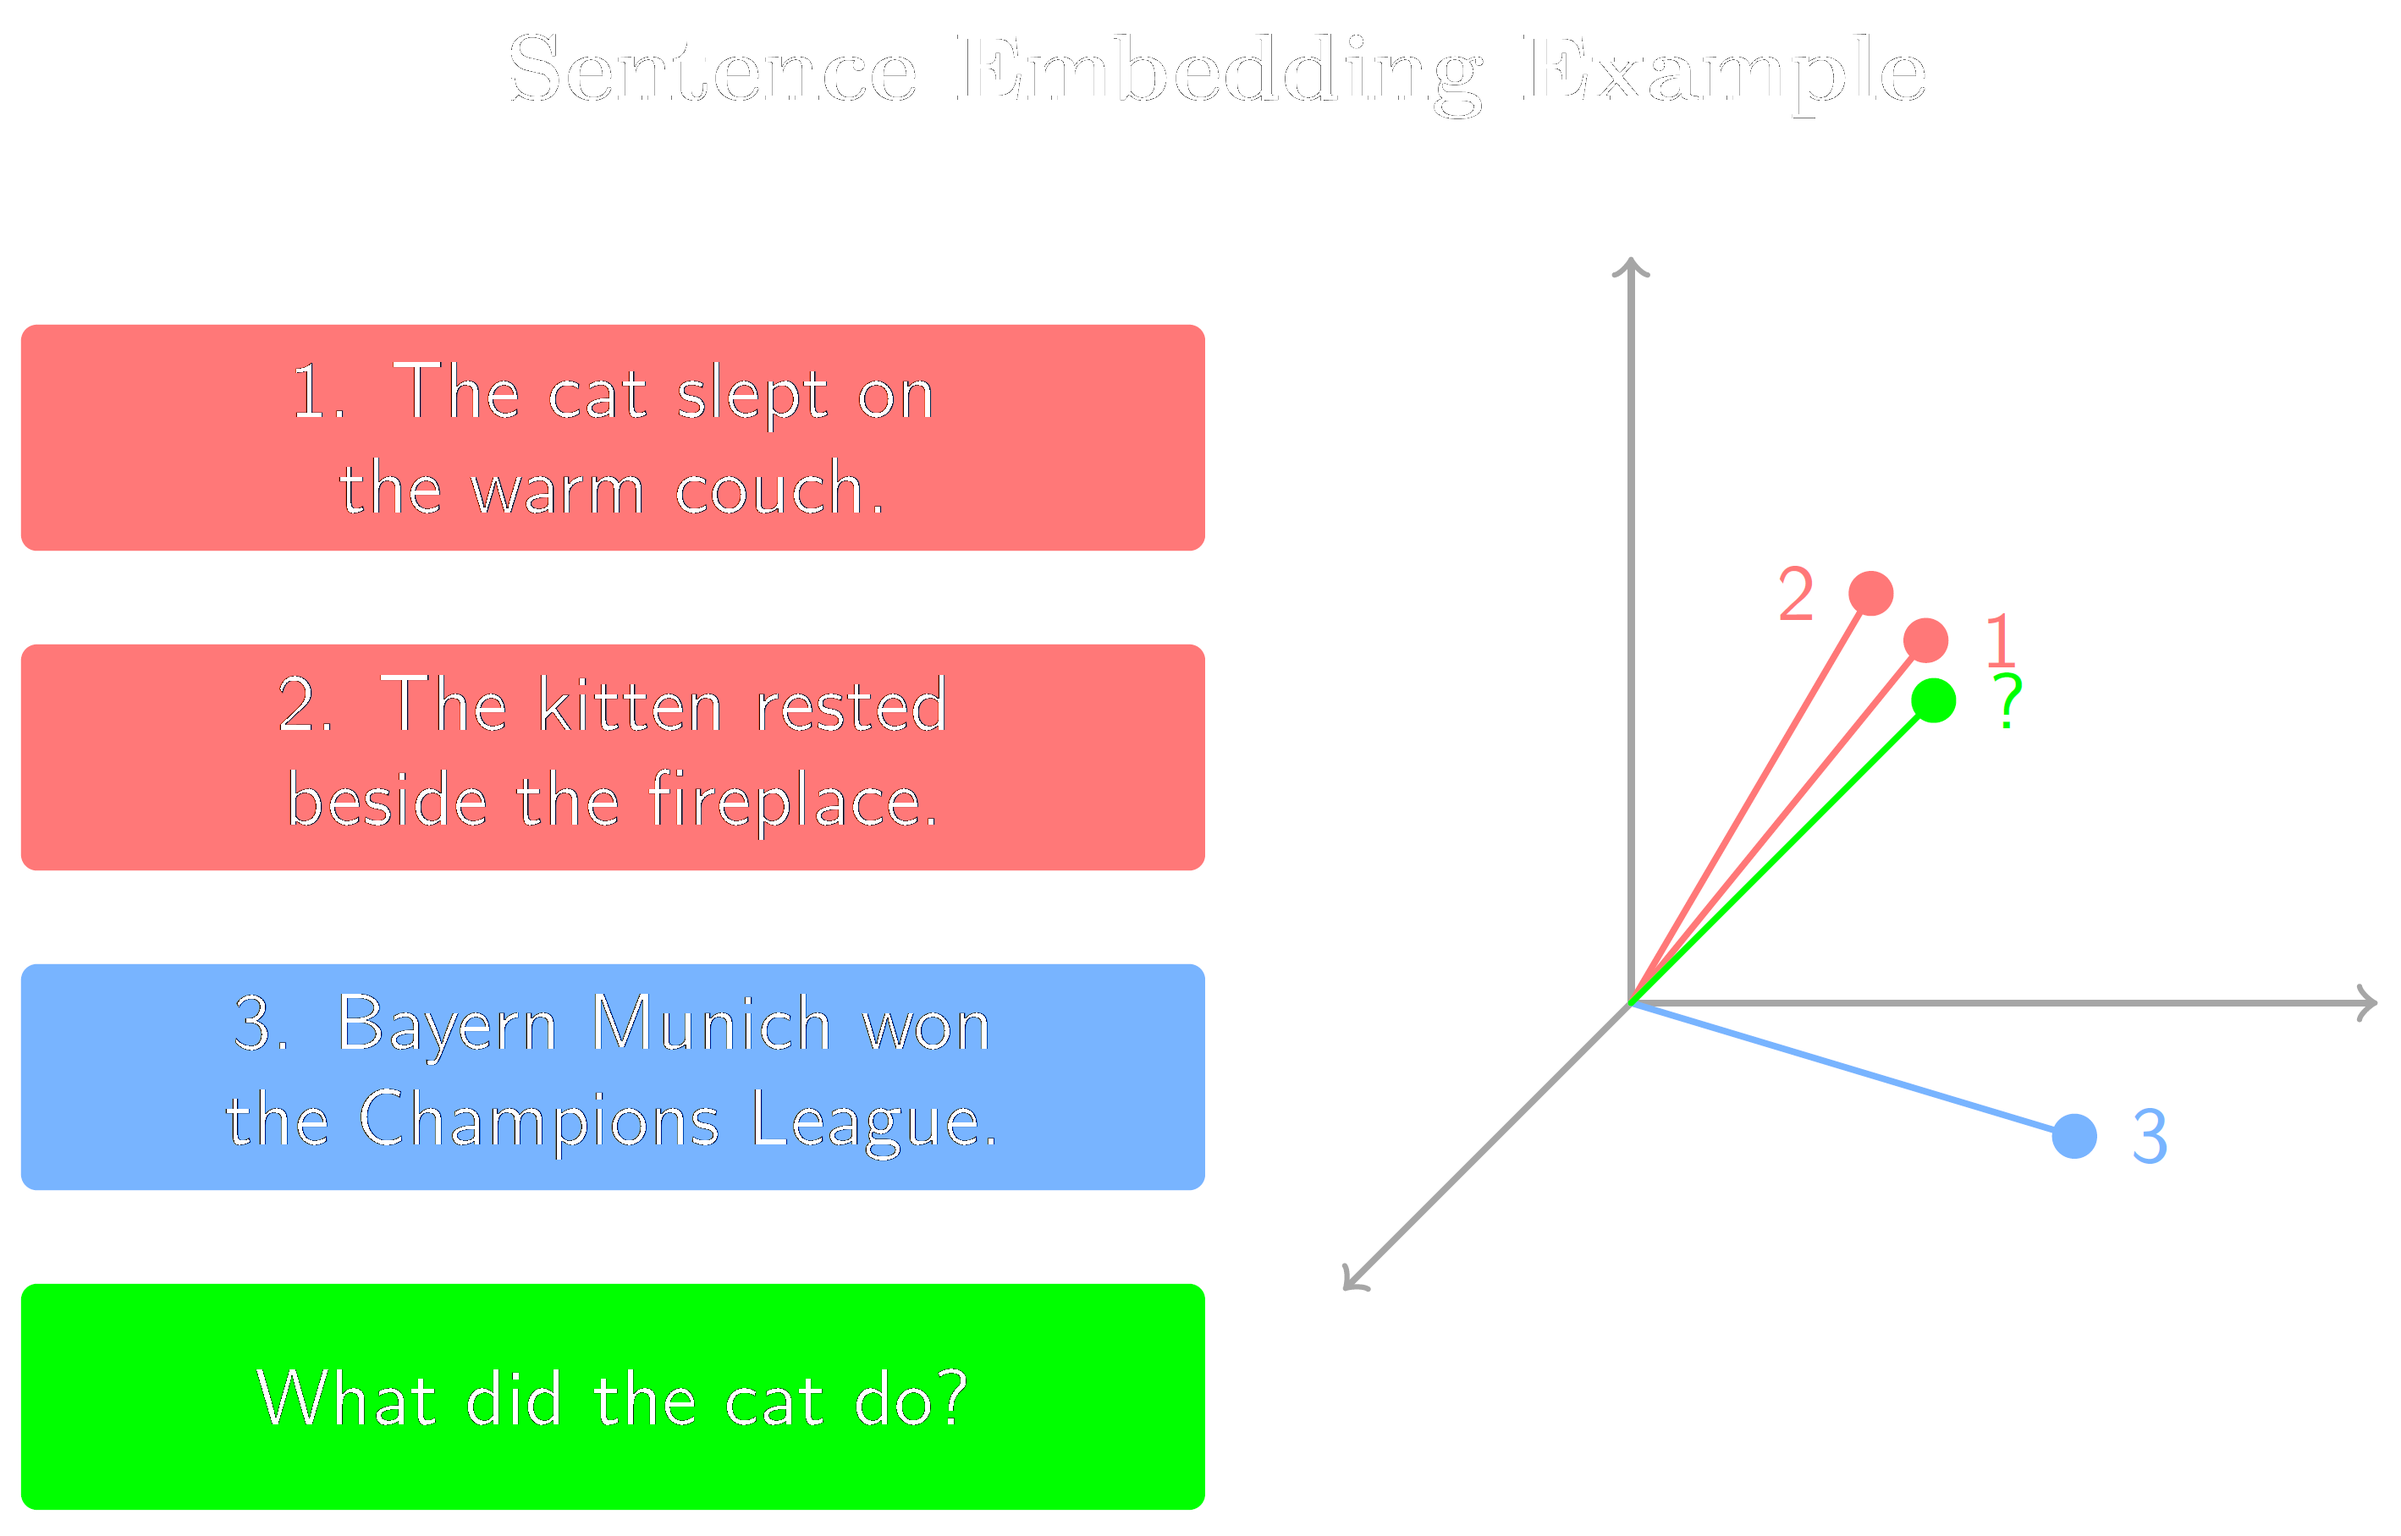
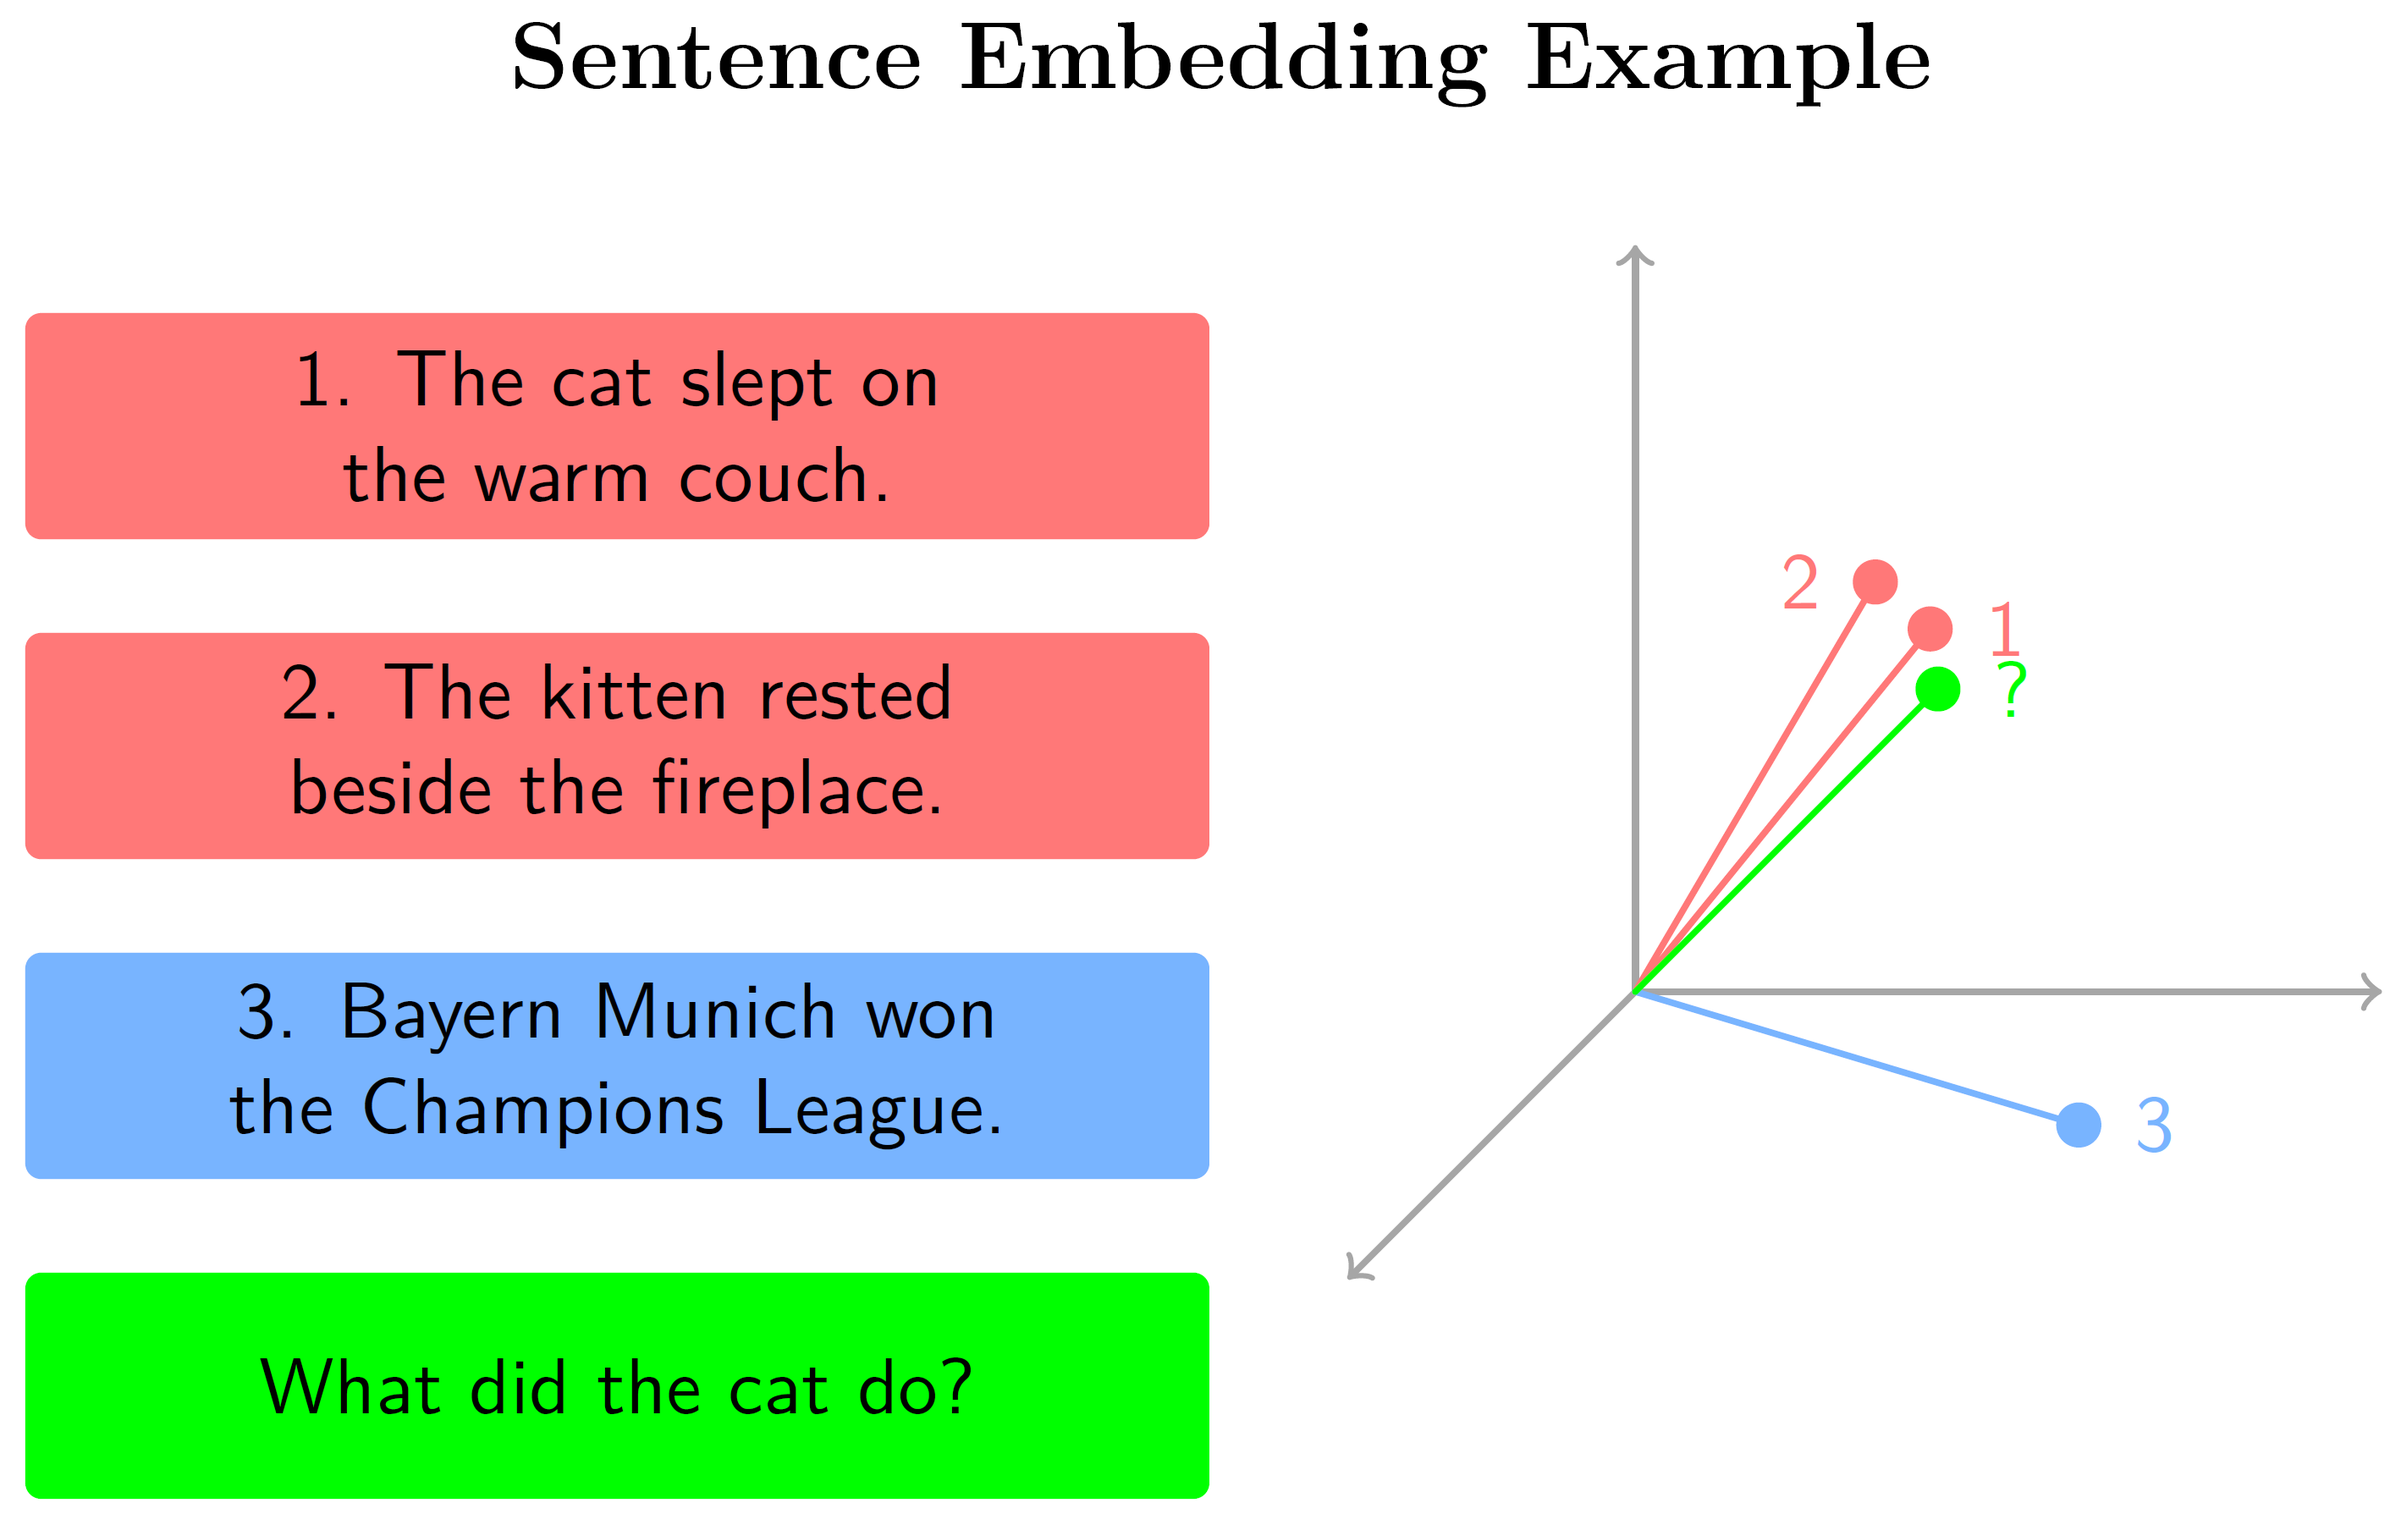
improved readme of notebook

diff --git a/notebooks/README.md b/notebooks/README.md
@@ -36,7 +36,7 @@ Icons von Flaticon. Verwendung im Rahmen des Zitatrechts (§ 51 UrhG). Diese Abb
 <p align="center">
    <img src="images/vectorspace.png" 
        alt="Sentence Embedding Example" 
-       width="750">
+       width="650">
    </p>
 
 *Abbildung: Visualisierung der semantischen Ähnlichkeit von Satz-Embeddings in einem dreidimensionalen Vektorraum.  
@@ -45,7 +45,7 @@ Eigene Darstellung, inspiriert durch das Kursmaterial aus ["Retrieval Augmented 
 <p align="center">
    <img src="images/vectorspace_question.png" 
        alt="Sentence Embedding Example with question" 
-       width="750">
+       width="650">
    </p>
 
 *Abbildung: Visualisierung der semantischen Ähnlichkeit von Satz-Embeddings in einem dreidimensionalen Vektorraum inklusive einer Frage.  
